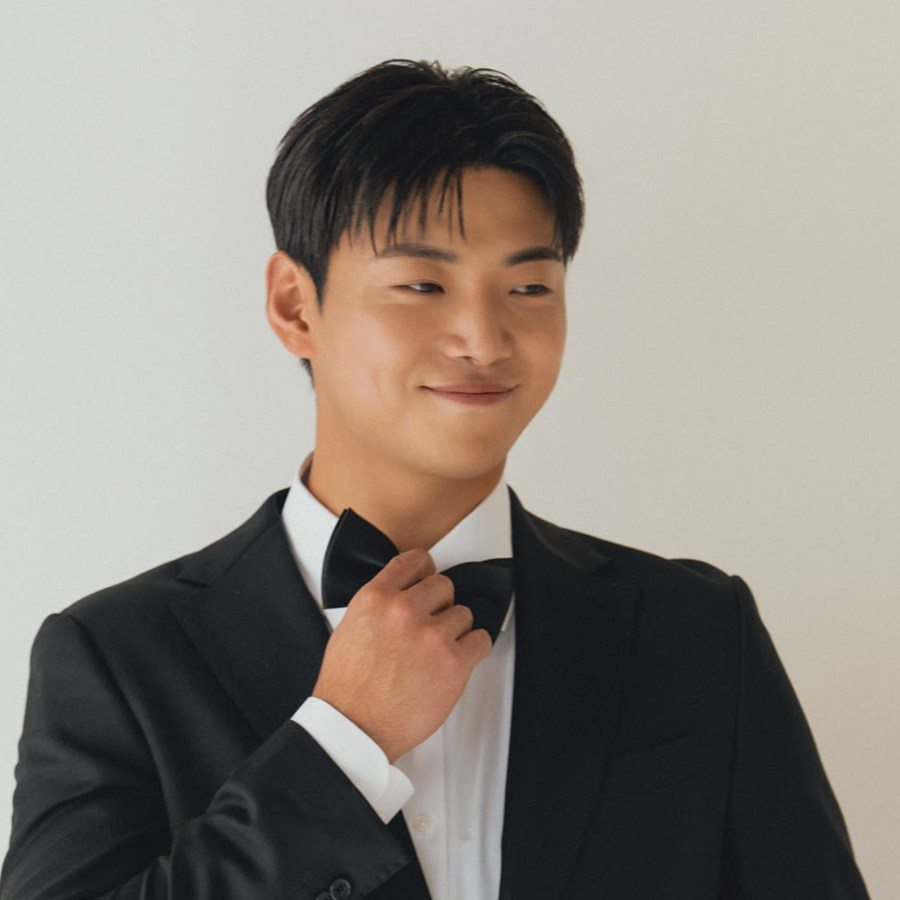
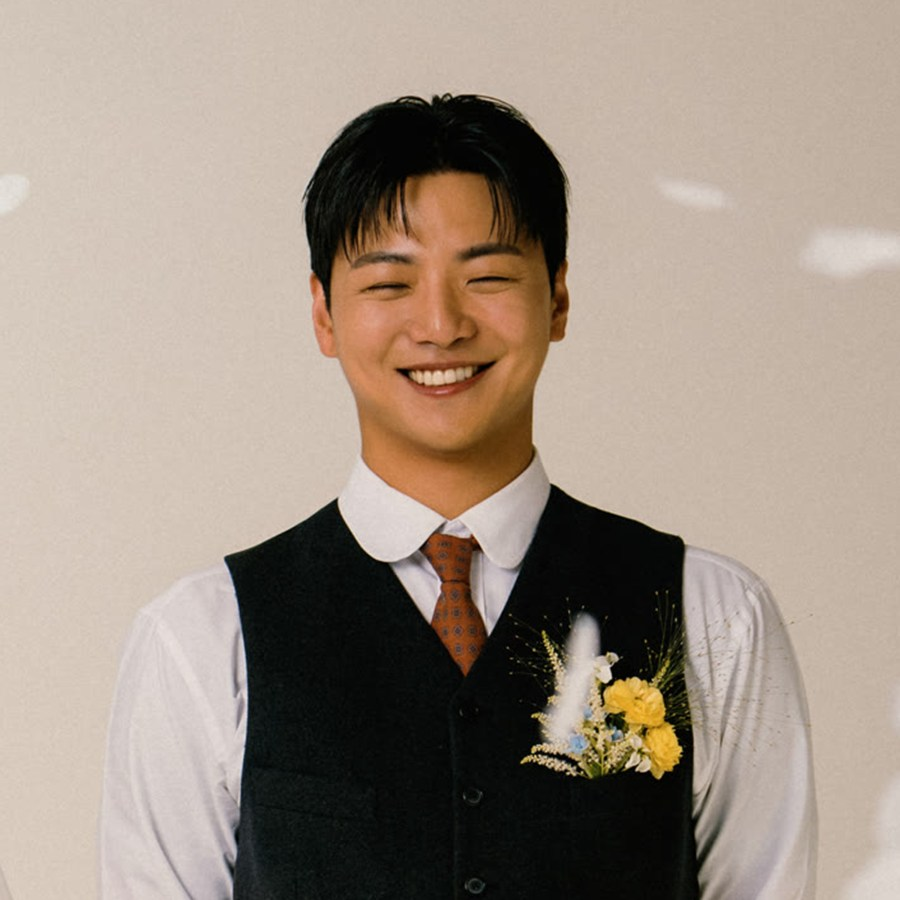
소개 사진을 _LMB5881 크롭으로 교체, 달력 아래 D-day 제거

diff --git a/index.html b/index.html
@@ -126,9 +126,6 @@ h2{margin:0;font-weight:300;font-size:15px;letter-spacing:4px;text-indent:4px}
 .calendar td span{display:inline-flex;align-items:center;justify-content:center;width:32px;height:32px;border-radius:50%}
 .calendar td.sun{color:#a8584a}
 .calendar td.today span{background:var(--ink);color:var(--white);font-weight:400}
-.dday{margin-top:36px;text-align:center;font-size:13.5px;line-height:1.9}
-.dday strong{display:block;font-family:var(--en);font-weight:700;font-size:28px;letter-spacing:2px;color:var(--date);margin-bottom:4px}
-.dday em{font-style:normal;font-weight:400}
 
 /* ---------- 4. gallery ---------- */
 .gallery{padding-left:0;padding-right:0}
@@ -273,10 +270,6 @@ details[open] summary svg{transform:rotate(180deg)}
       </table>
     </div>
 
-    <div class="dday reveal">
-      <strong id="dday">D-</strong>
-      <span id="dday-text">강석 <em>♥</em> 지은의 결혼식까지</span>
-    </div>
   </section>
 
   <!-- 4. 갤러리 -->
@@ -470,18 +463,6 @@ details[open] summary svg{transform:rotate(180deg)}
   var KAKAO_JS_KEY = '';
   var WEDDING = new Date(2027, 0, 23, 18, 40); // 2027-01-23 18:40 (기기 로컬 시간)
   var reduced = window.matchMedia('(prefers-reduced-motion: reduce)').matches;
-
-  // ===== D-day =====
-  (function(){
-    var now = new Date();
-    var a = new Date(now.getFullYear(), now.getMonth(), now.getDate());
-    var b = new Date(WEDDING.getFullYear(), WEDDING.getMonth(), WEDDING.getDate());
-    var diff = Math.round((b - a) / 86400000);
-    var el = document.getElementById('dday'), txt = document.getElementById('dday-text');
-    if (diff > 0) { el.textContent = 'D-' + diff; txt.innerHTML = '강석 <em>♥</em> 지은의 결혼식이 ' + diff + '일 남았습니다'; }
-    else if (diff === 0) { el.textContent = 'D-DAY'; txt.innerHTML = '오늘, 강석 <em>♥</em> 지은이 결혼합니다'; }
-    else { el.textContent = 'D+' + (-diff); txt.innerHTML = '강석 <em>♥</em> 지은이 결혼한 지 ' + (-diff) + '일'; }
-  })();
 
   // ===== 스크롤 등장 =====
   // 첫 화면에 보이는 요소는 그대로 두고, 아래쪽 요소만 스크롤 시 등장시킵니다.
